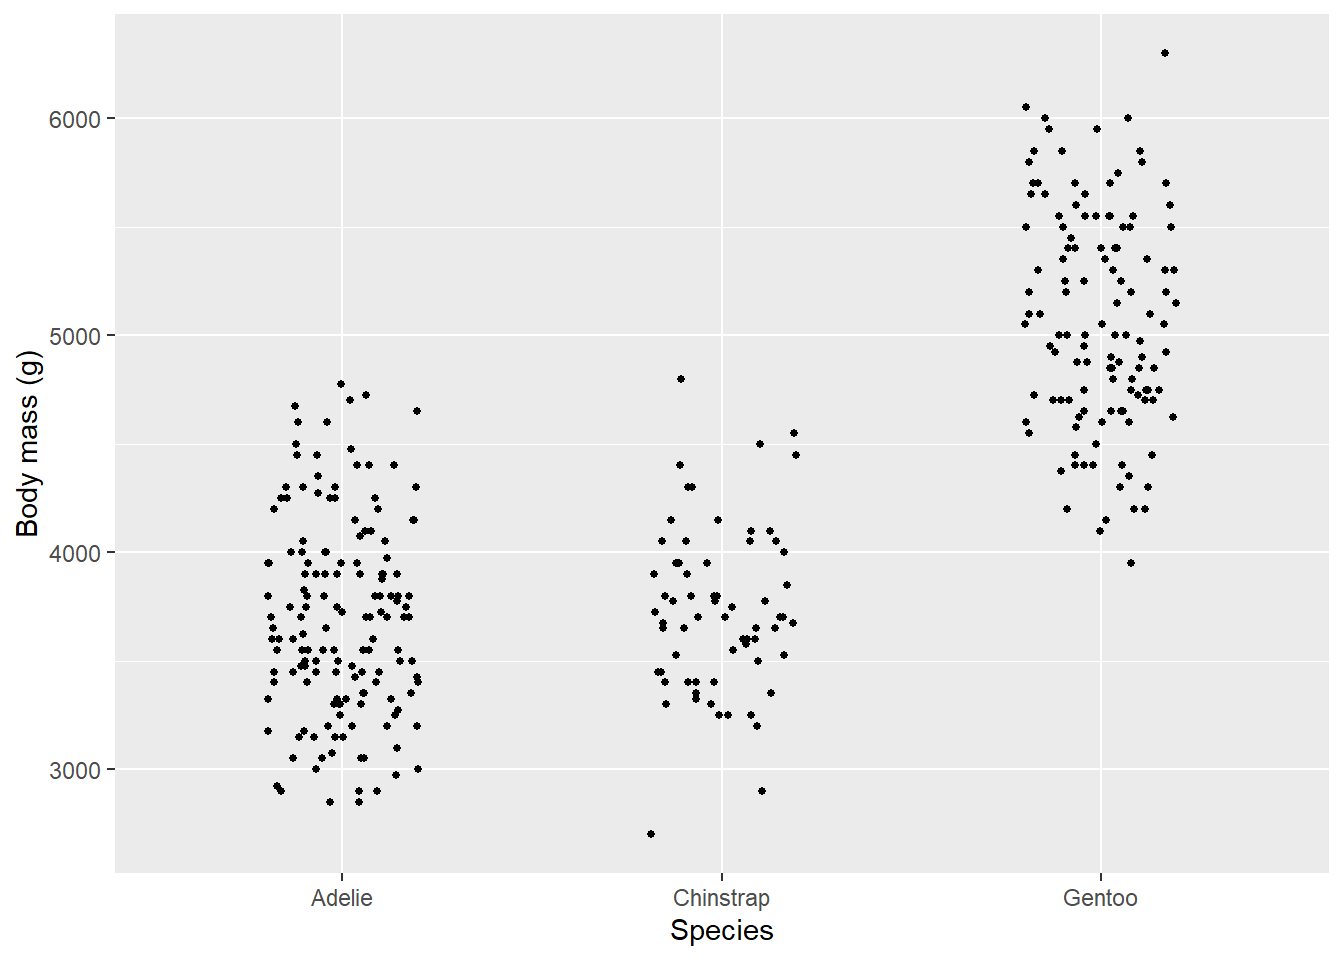
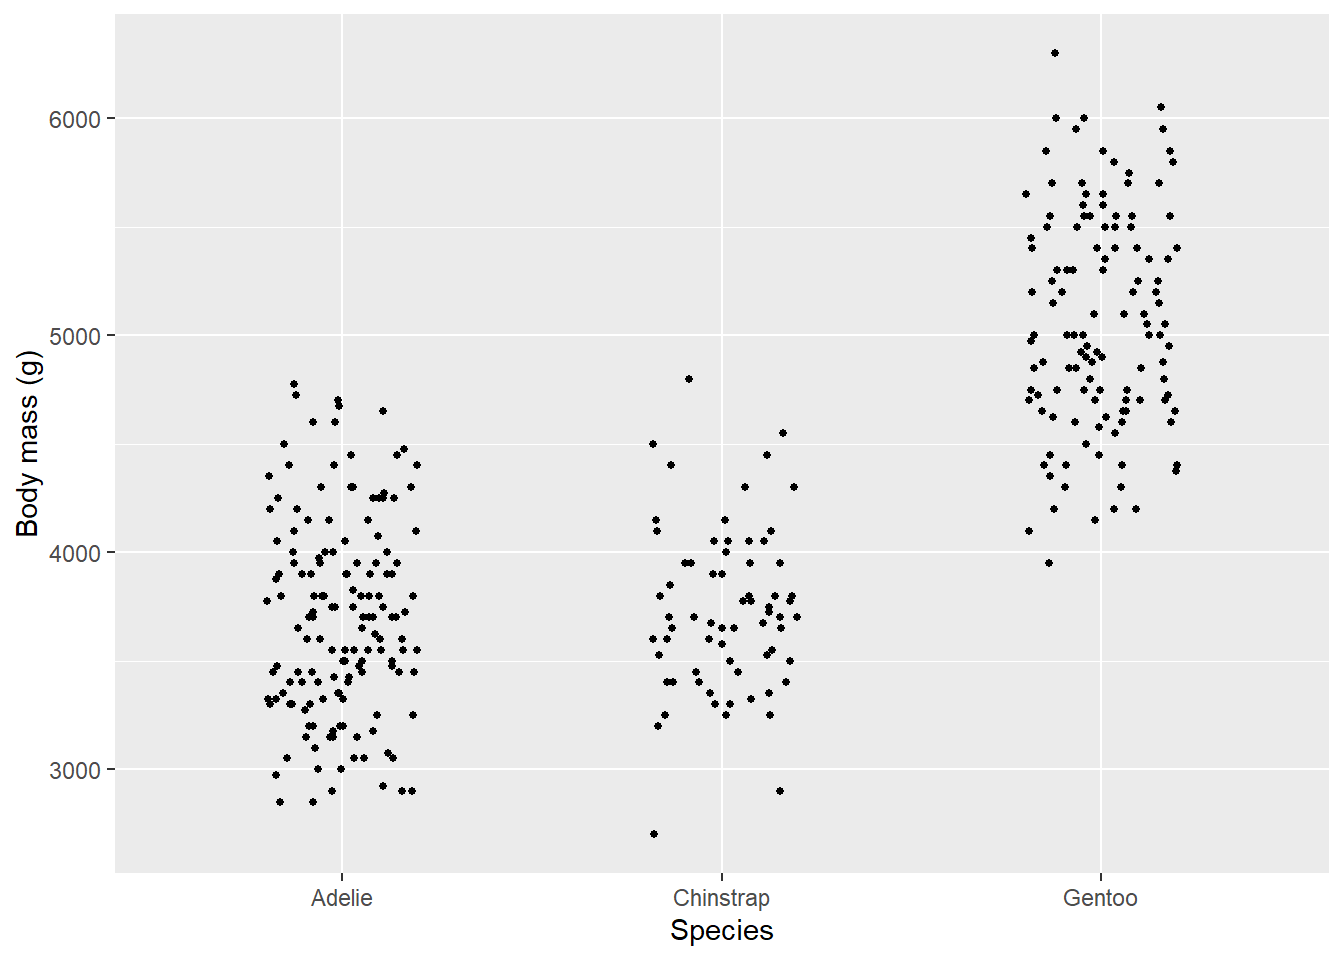
Update Milestone 3

diff --git a/docs/posts/python-penguins/index.html b/docs/posts/python-penguins/index.html
@@ -112,7 +112,10 @@ pre > code.sourceCode > span > a:first-child::before { text-decoration: underlin
 }</script>
 <script src="https://cdn.jsdelivr.net/npm/requirejs@2.3.6/require.min.js" integrity="sha384-c9c+LnTbwQ3aujuU7ULEPVvgLs+Fn6fJUvIGTsuu1ZcCf11fiEubah0ttpca4ntM sha384-6V1/AdqZRWk1KAlWbKBlGhN7VG4iE/yAZcO6NZPMF8od0vukrvr0tg4qY6NSrItx" crossorigin="anonymous"></script>
 
+
+
 <script type="application/javascript">define('jquery', [],function() {return window.jQuery;})</script>
+
 
 
 <link rel="stylesheet" href="../../styles.css">
@@ -208,7 +211,7 @@ pre > code.sourceCode > span > a:first-child::before { text-decoration: underlin
 
 <section id="dataset" class="level2">
 <h2 class="anchored" data-anchor-id="dataset">dataset</h2>
-<div id="fd5250f8" class="cell" data-message="false" data-execution_count="1">
+<div id="cf7382ce" class="cell" data-message="false" data-execution_count="1">
 <div class="code-copy-outer-scaffold"><div class="sourceCode cell-code" id="cb1"><pre class="sourceCode python code-with-copy"><code class="sourceCode python"><span id="cb1-1"><a href="#cb1-1" aria-hidden="true" tabindex="-1"></a><span class="im">from</span> palmerpenguins <span class="im">import</span> load_penguins</span>
 <span id="cb1-2"><a href="#cb1-2" aria-hidden="true" tabindex="-1"></a></span>
 <span id="cb1-3"><a href="#cb1-3" aria-hidden="true" tabindex="-1"></a>penguins <span class="op">=</span> load_penguins()</span>
@@ -236,7 +239,7 @@ pre > code.sourceCode > span > a:first-child::before { text-decoration: underlin
 </section>
 <section id="count-the-number-of-penguins-for-each-species" class="level2">
 <h2 class="anchored" data-anchor-id="count-the-number-of-penguins-for-each-species">count the number of penguins for each species</h2>
-<div id="45e16a65" class="cell" data-execution_count="2">
+<div id="56747d0e" class="cell" data-execution_count="2">
 <div class="code-copy-outer-scaffold"><div class="sourceCode cell-code" id="cb3"><pre class="sourceCode python code-with-copy"><code class="sourceCode python"><span id="cb3-1"><a href="#cb3-1" aria-hidden="true" tabindex="-1"></a>penguins[<span class="st">"species"</span>].value_counts()</span></code></pre></div><button title="Copy to Clipboard" class="code-copy-button"><i class="bi"></i></button></div>
 <div class="cell-output cell-output-display" data-execution_count="2">
 <pre><code>species
@@ -249,7 +252,7 @@ Name: count, dtype: int64</code></pre>
 </section>
 <section id="find-the-specie-with-min-body_mass_g" class="level2">
 <h2 class="anchored" data-anchor-id="find-the-specie-with-min-body_mass_g">find the specie with min body_mass_g</h2>
-<div id="45ac535d" class="cell" data-execution_count="3">
+<div id="f137cc72" class="cell" data-execution_count="3">
 <div class="code-copy-outer-scaffold"><div class="sourceCode cell-code" id="cb5"><pre class="sourceCode python code-with-copy"><code class="sourceCode python"><span id="cb5-1"><a href="#cb5-1" aria-hidden="true" tabindex="-1"></a><span class="bu">print</span>(penguins.sort_values(<span class="st">"body_mass_g"</span>, ascending<span class="op">=</span><span class="va">True</span>)[[<span class="st">"species"</span>, <span class="st">"body_mass_g"</span>]].head(<span class="dv">1</span>))</span></code></pre></div><button title="Copy to Clipboard" class="code-copy-button"><i class="bi"></i></button></div>
 <div class="cell-output cell-output-stdout">
 <pre><code>       species  body_mass_g
@@ -277,23 +280,23 @@ Name: count, dtype: int64</code></pre>
 <div aria-describedby="fig-penguin-mass-caption-0ceaefa1-69ba-4598-a22c-09a6ac19f8ca">
 
 <style>
-  #altair-viz-b01f3d85d9cb43558d4d50dd0ba34406.vega-embed {
+  #altair-viz-d0268c82c007456ca4a26a2f24b7af7b.vega-embed {
     width: 100%;
     display: flex;
   }
 
-  #altair-viz-b01f3d85d9cb43558d4d50dd0ba34406.vega-embed details,
-  #altair-viz-b01f3d85d9cb43558d4d50dd0ba34406.vega-embed details summary {
+  #altair-viz-d0268c82c007456ca4a26a2f24b7af7b.vega-embed details,
+  #altair-viz-d0268c82c007456ca4a26a2f24b7af7b.vega-embed details summary {
     position: relative;
   }
 </style>
-<div id="altair-viz-b01f3d85d9cb43558d4d50dd0ba34406"></div>
+<div id="altair-viz-d0268c82c007456ca4a26a2f24b7af7b"></div>
 <script type="text/javascript">
   var VEGA_DEBUG = (typeof VEGA_DEBUG == "undefined") ? {} : VEGA_DEBUG;
   (function(spec, embedOpt){
     let outputDiv = document.currentScript.previousElementSibling;
-    if (outputDiv.id !== "altair-viz-b01f3d85d9cb43558d4d50dd0ba34406") {
-      outputDiv = document.getElementById("altair-viz-b01f3d85d9cb43558d4d50dd0ba34406");
+    if (outputDiv.id !== "altair-viz-d0268c82c007456ca4a26a2f24b7af7b") {
+      outputDiv = document.getElementById("altair-viz-d0268c82c007456ca4a26a2f24b7af7b");
     }
 
     const paths = {

diff --git a/README.md b/README.md
@@ -1,1 +1,30 @@
 # lsfe9.github.io
+
+# Intro of my repository
+This repository contains my quarto website for DSCI 521. There are 2 new analysis post about the Palmer Penguins dataset which written in different coding languages Python and R.
+
+# Installation requirements
+1. quarto --version 1.10.18
+2. uv --version 0.12.7
+3. R --version 4.6.1
+The required Python packages are recorded in `uv.lock`, and the required R packages are recorded in `renv.lock`. Also, renv bootstraps itself.
+
+# Build the website
+You could run the following commands in your Git Bash terminal to built site.
+
+cd yourfolder
+git clone https://github.com/lsfe9/lsfe9.github.io.git
+cd lsfe9.github.io
+uv sync
+R 
+renv::restore()
+q()
+n
+uv run quarto render
+
+# Open the site locally
+The rendered website is in the `docs` folder. Open `docs/index.html` in a web browser, then you can see the website. These posts are under `docs/posts`.
+
+# Data Source
+For both Python and R analysis, I used the Penguins data from the `palmerpenguins` package. If you have install all the required package in the Installation requirements steps,
+building the site does not need a network connection to fetch the data.
